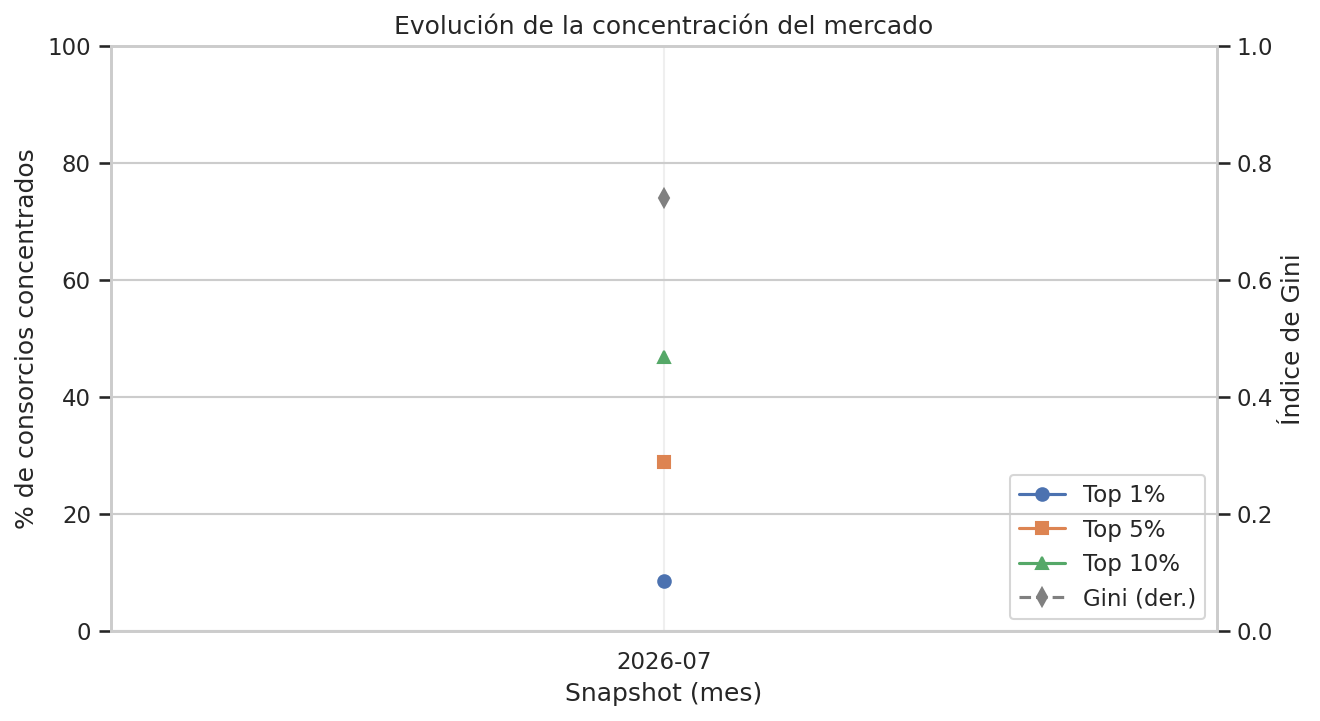
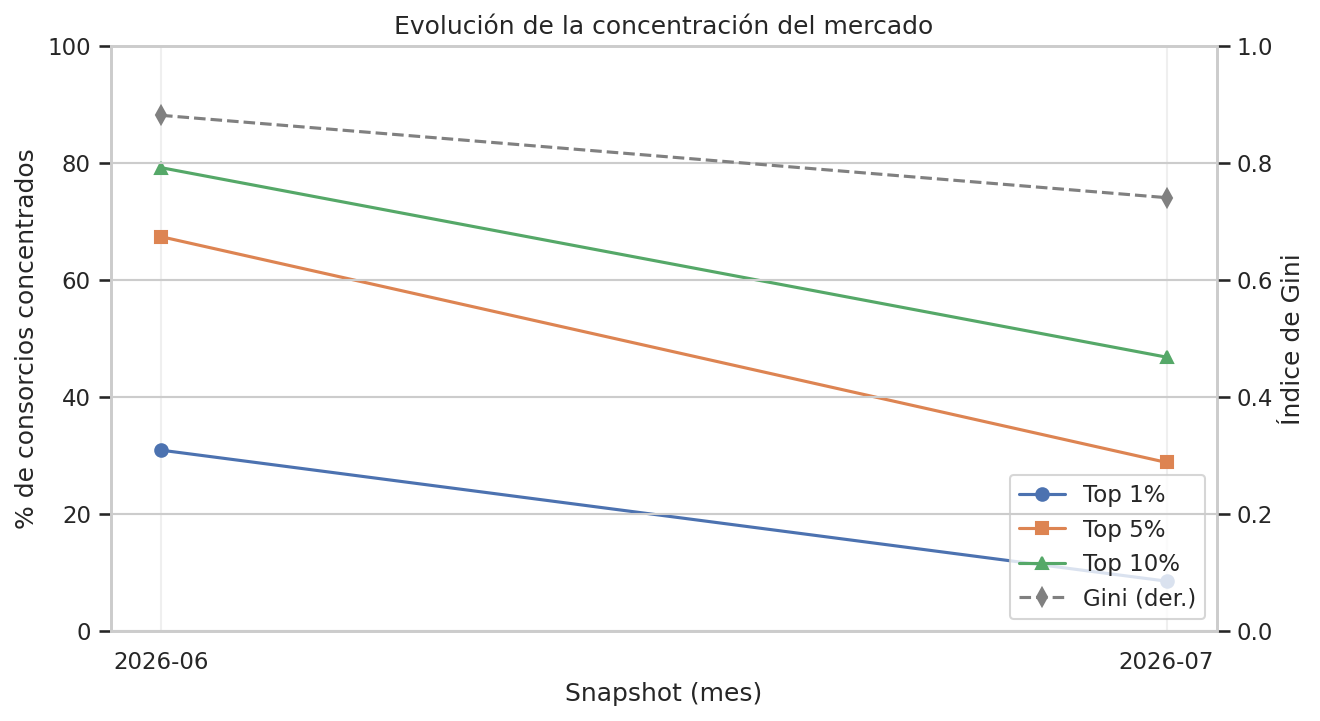
Documentar transparentemente el cambio del padrón entre junio y julio 2026
- Reconstruir el corte del análisis original como snapshot histórico
  2026-06 (5.671 administradores, desde data/agregados/), con nota de
  procedencia en su metadata.json.
- El evolutivo ahora muestra el salto real: 5.671 -> 3.856 matrículas y
  7.744 -> 1.560 consorcios entre cortes, visible en resumen.csv, el
  reporte mensual y los gráficos de tendencia.
- Las notas metodológicas de metadata.json se propagan automáticamente
  al reporte mensual (sección "Nota metodológica").
- README: advertencia fechada en el análisis original y nueva sección
  "El evolutivo en acción" con la tabla del cambio y las hipótesis
  (depuración del padrón vs cambio de semántica del endpoint).

Claude-Session: https://claude.ai/code/session_01QMwe8ukcm4QWcRNsnvTMQ7

diff --git a/generar_evolutivo.py b/generar_evolutivo.py
@@ -243,8 +243,13 @@ def _fmt_delta(actual, anterior, sufijo=''):
     return f' ({signo}{delta:g}{sufijo} vs mes anterior)'
 
 
-def generar_reporte(resumen, flujos, output_dir):
-    """Escribe reporte_<ultimo-snapshot>.md con el diff narrado del último corte."""
+def generar_reporte(resumen, flujos, output_dir, nota=None):
+    """Escribe reporte_<ultimo-snapshot>.md con el diff narrado del último corte.
+
+    Si el snapshot tiene una nota metodológica en su metadata.json (p. ej. un
+    cambio observado en el endpoint), se incluye en el reporte para que la
+    advertencia viaje junto con el dato.
+    """
     actual = resumen.iloc[-1]
     anterior = resumen.iloc[-2] if len(resumen) > 1 else None
 
@@ -278,6 +283,9 @@ def generar_reporte(resumen, flujos, output_dir):
             f"- Sancionados nuevos: **{f['sancionados_nuevos']}**",
             f"- Administradores que ganaron consorcios: **{f['ganaron_consorcios']}** · que perdieron: **{f['perdieron_consorcios']}** (neto: {f['consorcios_netos']:+d})",
         ]
+
+    if nota:
+        lineas += ['', '## Nota metodológica', '', f'> {nota}']
 
     if anterior is None:
         lineas += ['', '_Primer corte disponible: las variaciones aparecerán a partir del próximo snapshot._']
@@ -313,7 +321,8 @@ def main(snapshots_dir=SNAPSHOTS_DIR, output_dir=OUTPUT_DIR):
         tabla.to_csv(path, index=False, encoding='utf-8')
         print(f'  ✓ {path} ({len(tabla)} filas)')
 
-    reporte = generar_reporte(resumen, flujos, output_dir)
+    nota = _leer_metadata(os.path.join(snapshots_dir, snapshots[-1])).get('nota')
+    reporte = generar_reporte(resumen, flujos, output_dir, nota=nota)
     print(f'  ✓ {reporte}')
 
     if len(snapshots) < 2:

diff --git a/tests/test_evolutivo.py b/tests/test_evolutivo.py
@@ -205,6 +205,14 @@ class TestEvolutivo:
         assert 'Flujos del mes (vs 2026-07)' in texto
         assert 'Altas al padrón: **1**' in texto
 
+    def test_reporte_incluye_nota_metodologica(self, snapshots_dir, tmp_path):
+        resumen = generar_evolutivo.construir_resumen(['2026-07', '2026-08'], str(snapshots_dir))
+        path = generar_evolutivo.generar_reporte(
+            resumen, None, str(tmp_path), nota='El endpoint cambió de semántica.')
+        texto = open(path, encoding='utf-8').read()
+        assert '## Nota metodológica' in texto
+        assert '> El endpoint cambió de semántica.' in texto
+
     def test_series_formato_largo(self, snapshots_dir):
         series = generar_evolutivo.construir_series(['2026-07', '2026-08'], str(snapshots_dir))
 

diff --git a/README.md b/README.md
@@ -13,10 +13,15 @@ del Gobierno de la Ciudad de Buenos Aires, con un **análisis exploratorio** de 
 
 ## 📊 Análisis de datos
 
-A partir de los datos públicos se construyó un dataset de **5.671 administradores únicos**. El análisis
-completo, reproducible y narrado está en
+A partir de los datos públicos se construyó un dataset de **5.671 administradores únicos**
+(corte de **junio 2026**). El análisis completo, reproducible y narrado está en
 [`notebooks/analisis_administradores.ipynb`](notebooks/analisis_administradores.ipynb).
-Algunos hallazgos:
+
+> ⚠ **El padrón cambió después de este análisis.** En julio 2026 el buscador oficial pasó a
+> devolver ~3.856 matrículas y cifras de consorcios muy distintas. El cambio quedó documentado,
+> tal cual se observó, en la sección [Evolutivo](#-evolutivo-snapshots-mensuales).
+
+Algunos hallazgos del corte de junio 2026:
 
 ### El mercado está muy concentrado
 
@@ -132,6 +137,37 @@ python generar_graficos_evolutivo.py             # gráficos de tendencia en doc
 **Gráficos de tendencia**: `generar_graficos_evolutivo.py` produce `docs/img/evolucion_padron.png`
 y `docs/img/evolucion_concentracion.png` a partir del resumen (con un solo snapshot son puntos;
 las líneas aparecen a medida que se acumulan cortes).
+
+### 🔍 El evolutivo en acción: el padrón cambió entre junio y julio 2026
+
+El primer corte scrapeado en vivo (julio 2026) devolvió un padrón **muy** distinto al del análisis
+original (junio 2026). Lejos de esconder la discrepancia, es exactamente el tipo de cambio que este
+sistema existe para registrar — así que ambos cortes están versionados como snapshots y el salto
+queda a la vista:
+
+| Métrica | 2026-06 | 2026-07 | Δ |
+|---|---:|---:|---:|
+| Administradores registrados | 5.671 | 3.856 | **−1.815** |
+| Consorcios administrados | 7.744 | 1.560 | **−6.184** |
+| Matrículas activas | 2.184 | 1.071 | −1.113 |
+| Máx. consorcios por administrador | 100+ | 6 | — |
+| Top 5% concentra | 67,4% | 28,8% | −38,6 pp |
+
+![Evolución del padrón](docs/img/evolucion_padron.png)
+
+**Qué puede haber pasado** (no es determinable solo desde los datos):
+
+1. **Depuración del padrón**: el GCBA dio de baja matrículas no renovadas — consistente con que
+   la obligación de renovación anual figura en los propios mensajes del buscador.
+2. **Cambio en el endpoint**: la respuesta pasó de pares *(administrador, consorcio)* a una fila
+   por administrador, y `CANTIDADCONSORCIOS` puede haber cambiado de semántica (p. ej. solo
+   consorcios con declaración vigente).
+
+Probablemente sea una combinación de ambas. La política del repo es **documentar lo observado tal
+cual**: cada snapshot lleva su `nota` metodológica en `metadata.json`, que se propaga
+automáticamente al reporte mensual ([`reporte_2026-07.md`](data/evolutivo/reporte_2026-07.md)).
+Los próximos cortes mensuales van a mostrar si los números se estabilizan en el nuevo nivel
+(depuración) o siguen moviéndose (cambio de semántica).
 
 La captura mensual está automatizada con **GitHub Actions**
 ([`.github/workflows/snapshot-mensual.yml`](.github/workflows/snapshot-mensual.yml)): el día 1 de

diff --git a/data/evolutivo/reporte_2026-07.md b/data/evolutivo/reporte_2026-07.md
@@ -1,18 +1,20 @@
 # Reporte del padrón — 2026-07
 
-- **Administradores registrados:** 3856
-- **Consorcios administrados:** 1560
-- **Matrículas activas:** 1071
-- **Sin actualizar:** 2785
-- **Con sanciones:** 52
+- **Administradores registrados:** 3856 (-1815 vs mes anterior)
+- **Consorcios administrados:** 1560 (-6184 vs mes anterior)
+- **Matrículas activas:** 1071 (-1113 vs mes anterior)
+- **Sin actualizar:** 2785 (-702 vs mes anterior)
+- **Con sanciones:** 52 (-54 vs mes anterior)
 
 ## Concentración del mercado
 
-- Top 5% concentra el **28.8%** de los consorcios
-- Índice de Gini: **0.7407**
-- HHI: **9.9**
+- Top 5% concentra el **28.8%** de los consorcios (-38.6 pp vs mes anterior)
+- Índice de Gini: **0.7407** (-0.1408 vs mes anterior)
+- HHI: **9.9** (-18 vs mes anterior)
 
-_Primer corte disponible: las variaciones aparecerán a partir del próximo snapshot._
+## Nota metodológica
+
+> Primer corte scrapeado en vivo tras el release. El endpoint devolvió 3.856 matrículas contra 5.671 del corte 2026-06, y la cantidad de consorcios informada por administrador también cambió drásticamente (máximo 6 vs más de 100). Puede tratarse de una depuración del padrón por parte del GCBA o de un cambio en la semántica del endpoint; se documenta tal cual se observó. Ver README, sección Evolutivo.
 
 ---
 _Generado automáticamente por `generar_evolutivo.py` a partir de datos agregados y anonimizados._
